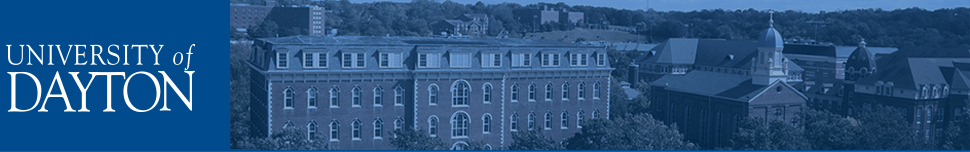
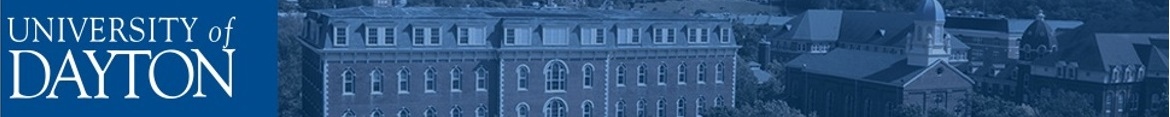
header footer work

diff --git a/new-libguides.html b/new-libguides.html
@@ -16,11 +16,15 @@
 		<div class="col-md-4">	
 			<div id="quick_links" style="text-align:center;vertial-align:center;font-size:12px;">
 				<p><a href="https://www.udayton.edu/libraries">University of Dayton Libraries</a> | 
-				<a href="https://udayton.edu">University of Dayton</a></p>    	
+				<a href="https://udayton.edu">University of Dayton</a></p>
+
+				<!--saved for additional links later
 				<p class="normal"><a href="http://library.nd.edu/about/contacts.shtml">Contact information*</a> | 
 				<a href="/about/policies.shtml">Library Policies*</a> |
 				<a href="https://wiki.nd.edu/display/libintranet/Home" class="intranet">HesNet*</a> | 
 				<a href="http://m.library.nd.edu/">Mobile version</a></p>
+				
+				-->
 			
 			</div>
 		</div>

diff --git a/header-test.html b/header-test.html
@@ -3,7 +3,7 @@
 	<!--START HEADER-->
 		<div class="mobile_logo" style="
 							background-color: #004B8E;
-							height: 148px;
+							height: 117px;
 							widgth: 100%;
 							">
 		
